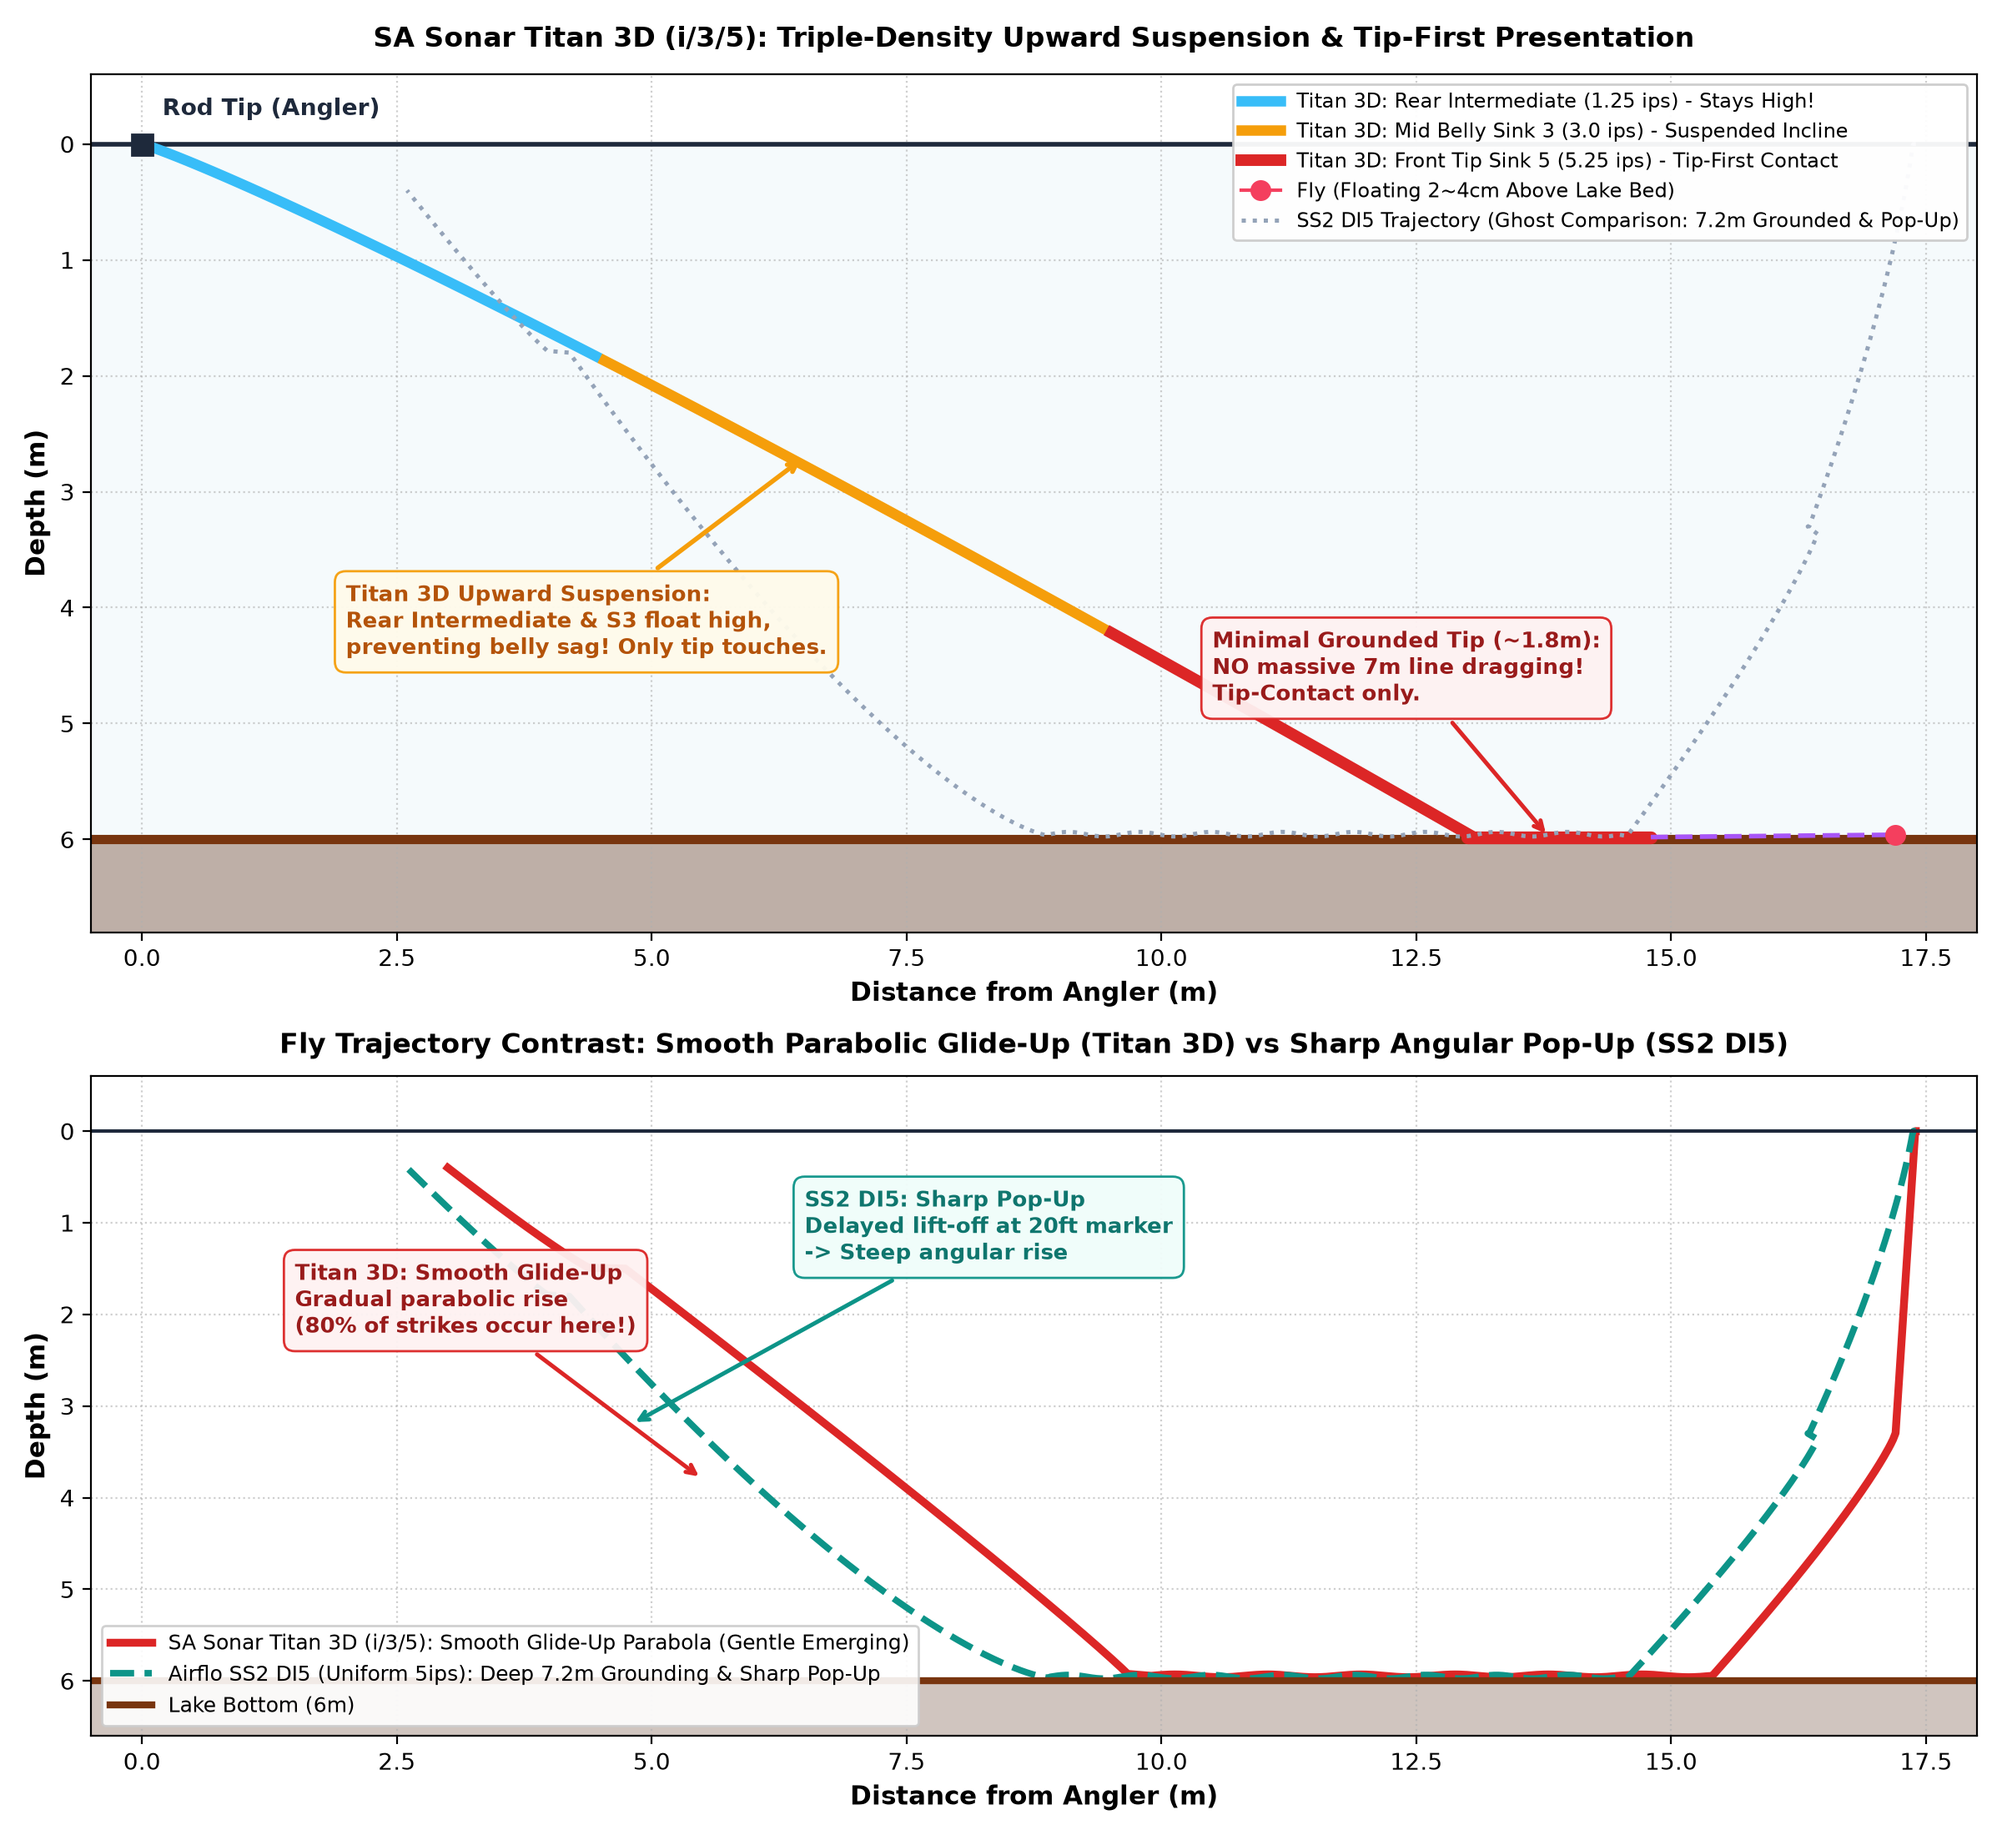
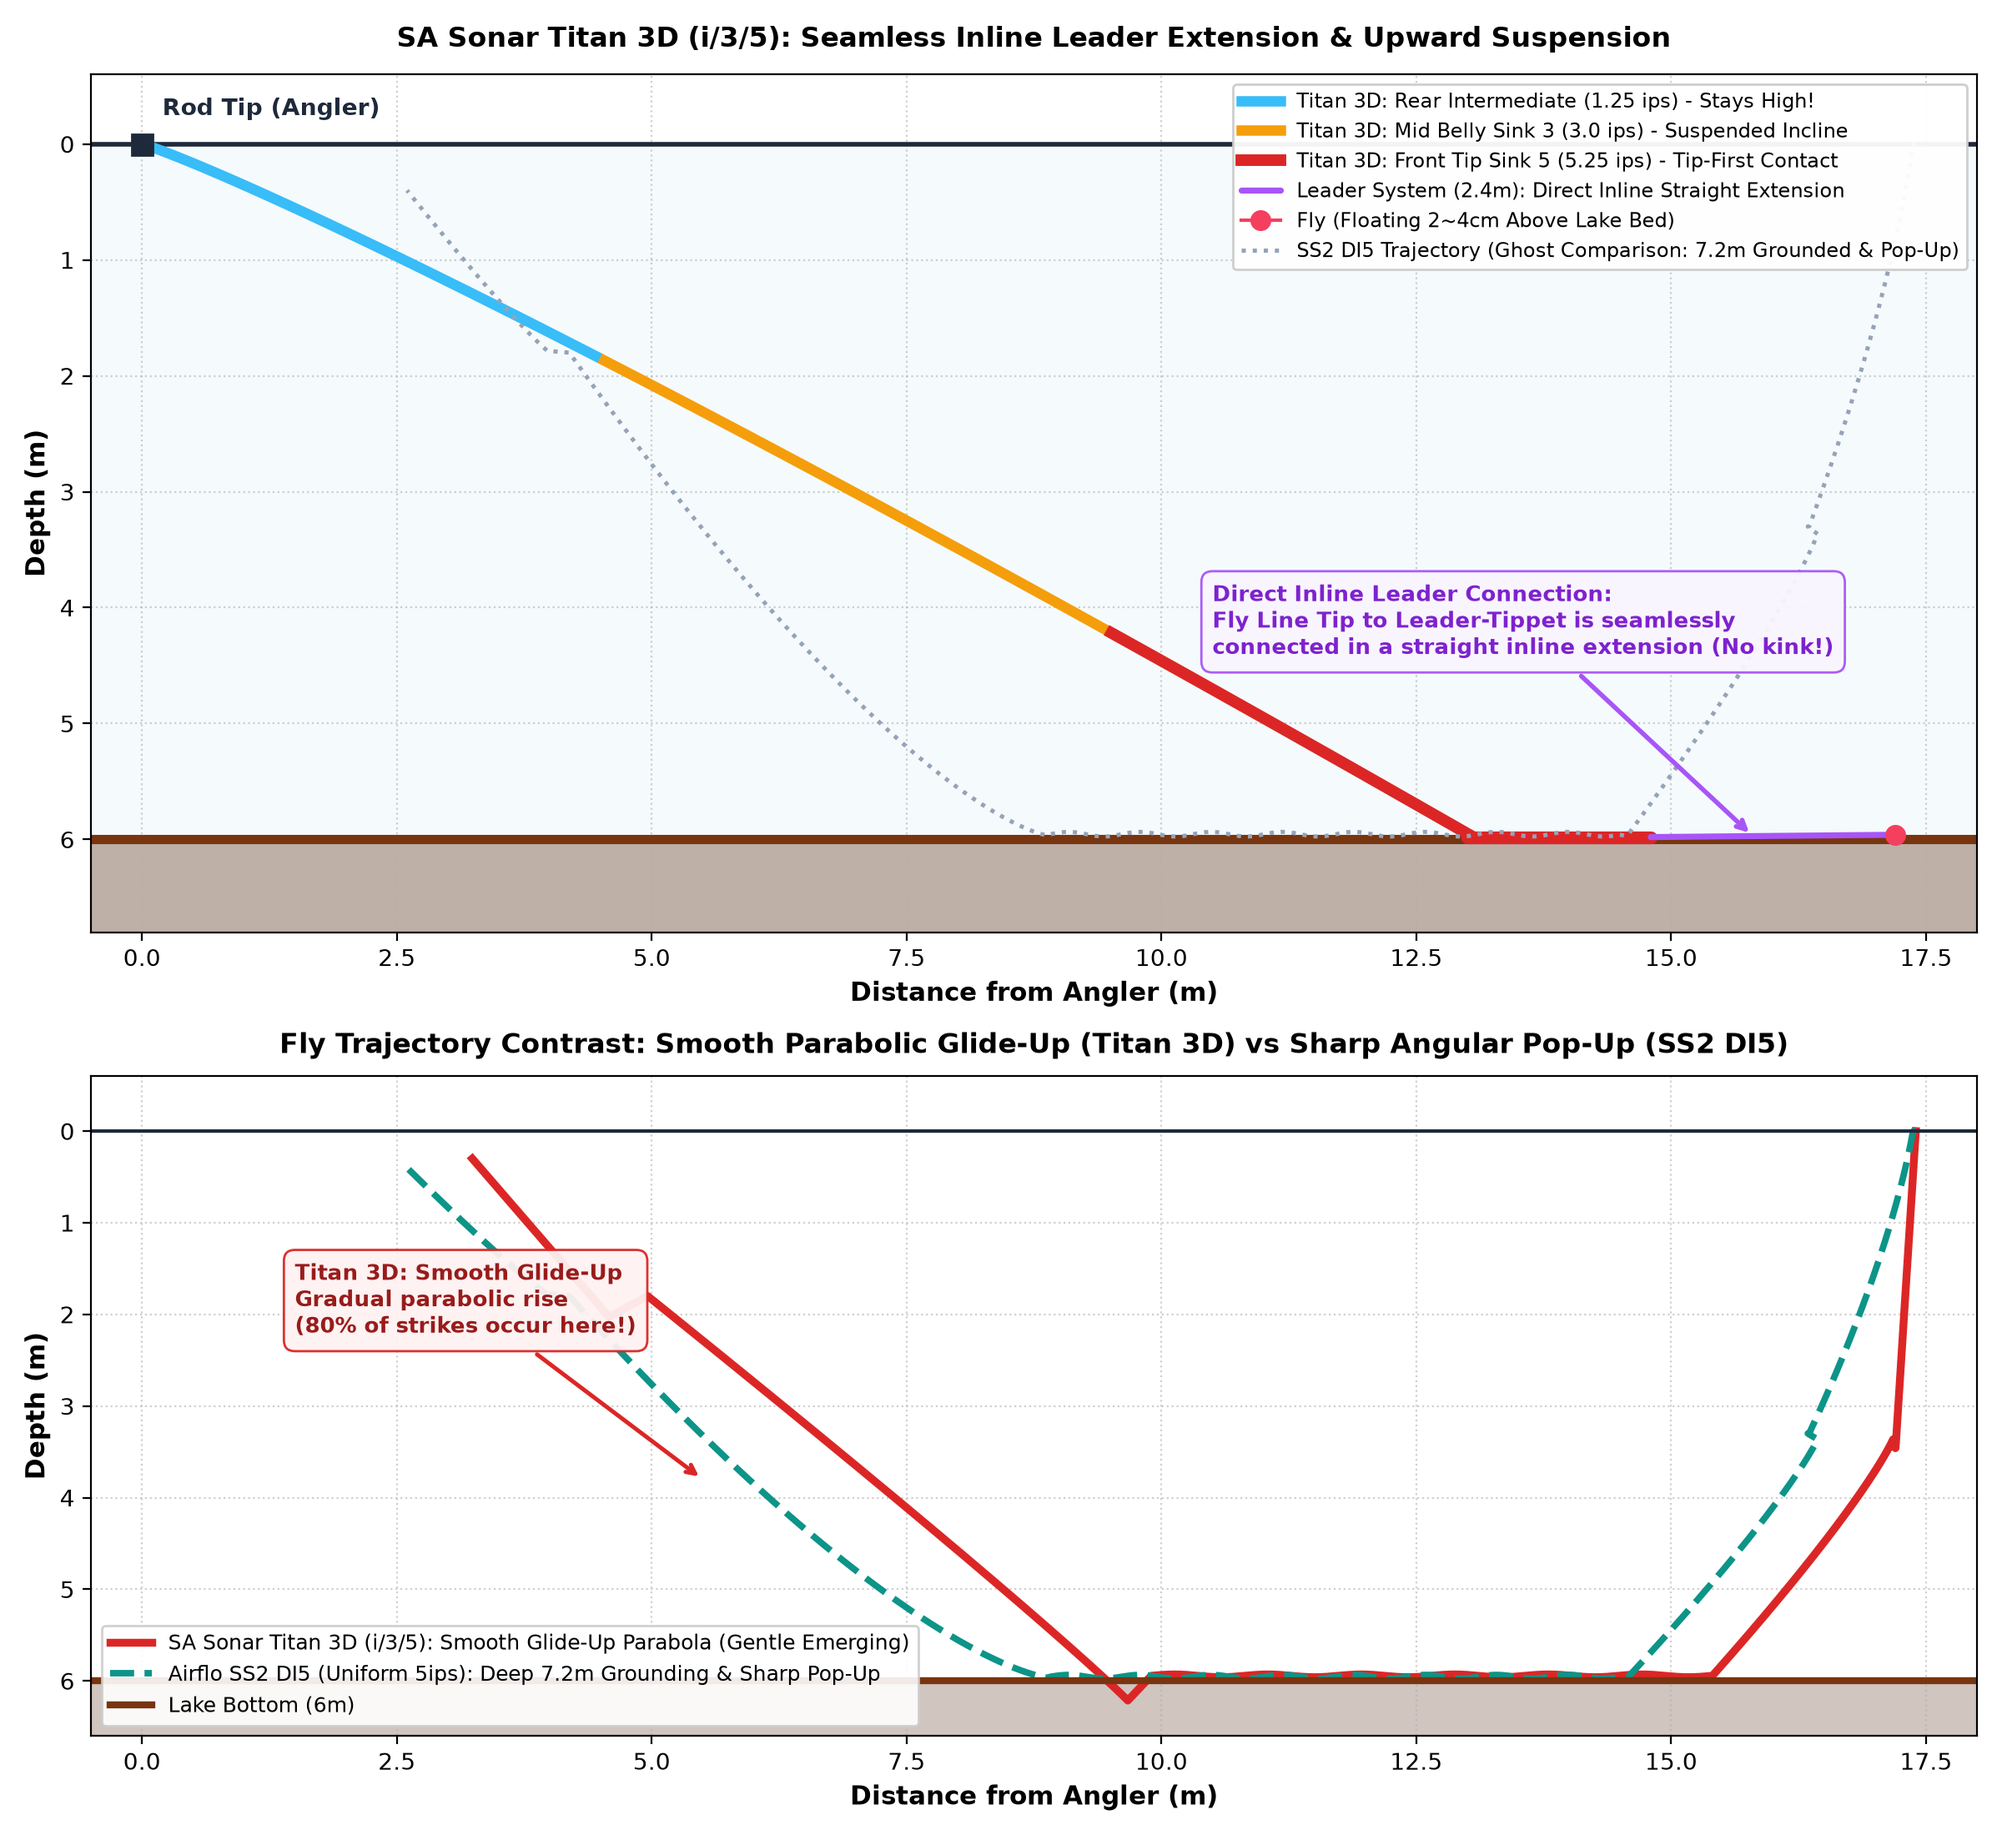
Refine line tip to leader connection with direct seamless inline straight extension

diff --git a/research/ss2-di5-trajectory-simulation.html b/research/ss2-di5-trajectory-simulation.html
@@ -403,21 +403,18 @@ function draw() {
     ctx.fillText(`바닥 밀착: ${cur.groundLen.toFixed(1)}m`, (touchPt.x + groundTipPt.x) / 2, touchPt.y - 12);
   }
 
-  // 3. Leader & Fly: gentle buoyant arc
-  const cpLeader = worldToCanvas(cur.distTip + 0.8, cur.depthFly + 0.01);
+  // 3. Leader & Fly: Direct Seamless Inline Extension
   ctx.beginPath();
   ctx.moveTo(tipPt.x, tipPt.y);
-  ctx.quadraticCurveTo(cpLeader.x, cpLeader.y, flyPt.x, flyPt.y);
-  ctx.strokeStyle = 'rgba(168, 85, 247, 0.9)';
-  ctx.lineWidth = 1.6;
-  ctx.setLineDash([4, 3]);
+  ctx.lineTo(flyPt.x, flyPt.y);
+  ctx.strokeStyle = '#c084fc';
+  ctx.lineWidth = 2.2;
   ctx.stroke();
-  ctx.setLineDash([]);
 
-  // Line Tip Marker
-  ctx.fillStyle = '#2dd4bf';
+  // Knot connection point
+  ctx.fillStyle = '#a855f7';
   ctx.beginPath();
-  ctx.arc(tipPt.x, tipPt.y, 4, 0, Math.PI * 2);
+  ctx.arc(tipPt.x, tipPt.y, 2.5, 0, Math.PI * 2);
   ctx.fill();
 
   // Fly Marker

diff --git a/research/titan-3d-trajectory-simulation.html b/research/titan-3d-trajectory-simulation.html
@@ -433,20 +433,18 @@ function draw() {
     ctx.fillText(`팁 접촉: ${cur.groundLen.toFixed(1)}m`, (touchPt.x + tipPt.x) / 2, touchPt.y - 12);
   }
 
-  // Leader & Fly
+  // Leader & Fly: Direct Seamless Inline Extension
   ctx.beginPath();
   ctx.moveTo(tipPt.x, tipPt.y);
   ctx.lineTo(flyPt.x, flyPt.y);
-  ctx.strokeStyle = 'rgba(168, 85, 247, 0.9)';
-  ctx.lineWidth = 1.6;
-  ctx.setLineDash([4, 3]);
+  ctx.strokeStyle = '#c084fc';
+  ctx.lineWidth = 2.2;
   ctx.stroke();
-  ctx.setLineDash([]);
 
-  // Line Tip Marker
-  ctx.fillStyle = '#ef4444';
+  // Knot connection point
+  ctx.fillStyle = '#a855f7';
   ctx.beginPath();
-  ctx.arc(tipPt.x, tipPt.y, 4, 0, Math.PI * 2);
+  ctx.arc(tipPt.x, tipPt.y, 2.5, 0, Math.PI * 2);
   ctx.fill();
 
   // Fly Marker
